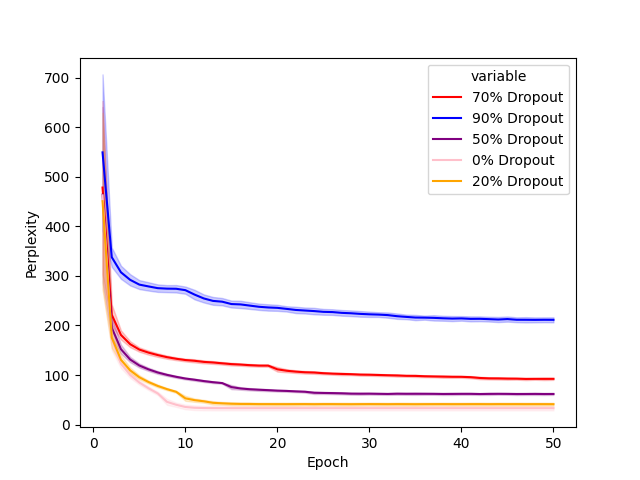
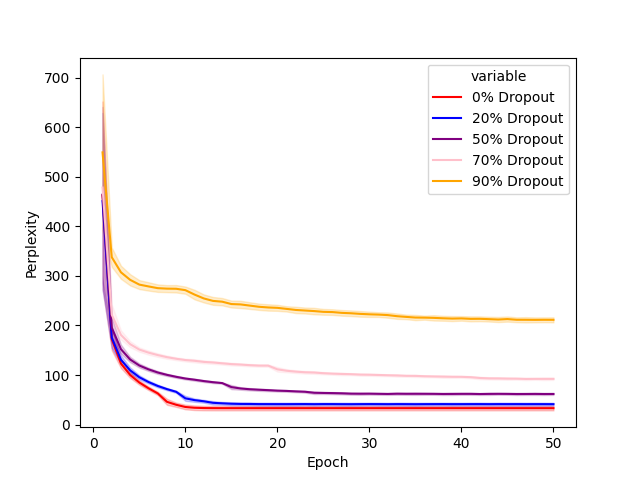
Reorder columns of tables

diff --git a/scripts/plot_perplexities.py b/scripts/plot_perplexities.py
@@ -12,15 +12,23 @@ directory = '../ppls'
 def create_ppl_table(ppl_type):
     '''Create a table with perplexities from all models (i.e. with for each dropout setting)'''
     ppl_df = pd.DataFrame()
+    # Add perplexities to dataframe for each dropout setting
     for filename in glob.glob(directory + '/*' + ppl_type + '.csv'):
         dropout = filename.split('_')[1]
         df = pd.read_csv(filename)
         if ppl_type != 'test':
             if 'epoch' not in ppl_df.columns:
-                ppl_df['epoch'] = df['epoch']
+                ppl_df['Epoch'] = df['epoch']
             ppl_df[dropout + '% ' + 'Dropout'] = df.iloc[:, [1]]
         else:
             ppl_df[dropout + '% ' + 'Dropout'] = df.iloc[:, [0]]
+    # reorder columns
+    if ppl_type != 'test':
+        cols = ["Epoch", "0% Dropout", "20% Dropout", "50% Dropout", "70% Dropout", "90% Dropout"]
+        ppl_df = ppl_df[cols]
+    else:
+        cols = ["0% Dropout","20% Dropout","50% Dropout", "70% Dropout", "90% Dropout"]
+        ppl_df = ppl_df[cols]
     return ppl_df
 
 
@@ -33,8 +41,8 @@ for ppl_type in ppl_types:
     final_table.to_csv(path+'/'+ppl_type+'.csv', index=False)
     # create line charts for train and val tables
     if ppl_type != 'test':
-        line_chart = sns.lineplot(x='epoch', y='value', hue='variable', 
-             data=pd.melt(final_table, ['epoch']),
+        line_chart = sns.lineplot(x='Epoch', y='value', hue='variable', 
+             data=pd.melt(final_table, ['Epoch']),
              palette=['red', 'blue', 'purple', 'pink', 'orange'])
         line_chart.set(xlabel='Epoch', ylabel='Perplexity')
         plt.show()
